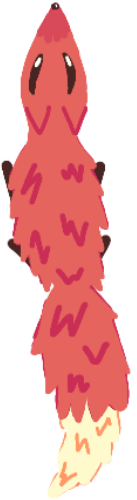
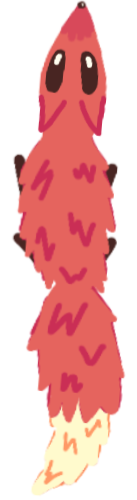
fox growl animation

diff --git a/v3/characters/fox.py b/v3/characters/fox.py
@@ -24,9 +24,10 @@ class Fox(Widget):
         self.init_sound()
         
     def init_sound(self):
-        self.growl = SoundLoader.load("v3/assets/foxgrowl.mp3")
+        self.growl = SoundLoader.load("assets/foxgrowl.mp3")
         self.sound_count = 0
         self.sound_randomness = 80
+        self.return_to_default_image = 15
 
     def where_is_chip(self):
         chip = self.screen.chip
@@ -48,8 +49,11 @@ class Fox(Widget):
     def make_sound(self):
         self.sound_count += 1
         if self.sound_count == self.sound_randomness:
+            self.image.source = "assets/foxgrowl.png"
             self.growl.play()
             self.sound_count = 0
+        elif self.sound_count == self.return_to_default_image:
+            self.image.source = "assets/fox.png"
 
     def is_making_sound(self):
         if self.sound_count == 0:
